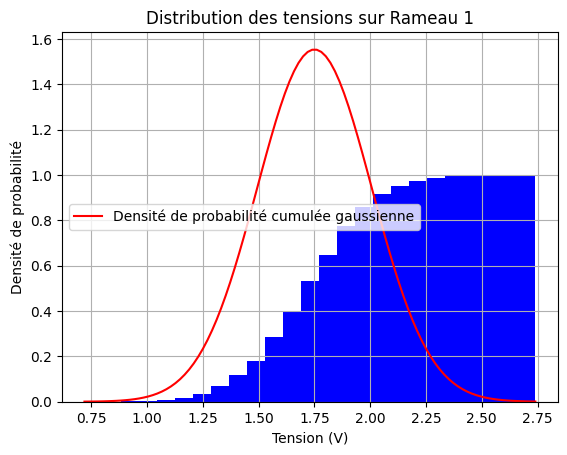
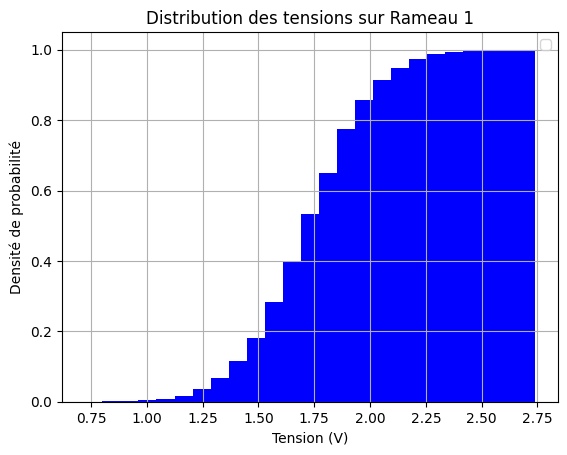
Slides

diff --git a/Exercice_5.py b/Exercice_5.py
@@ -45,7 +45,7 @@ gauss = lambda x,m,s: np.exp(-((x-m)**2)/(2*s**2))/(s*np.sqrt(2*np.pi))
 x = np.linspace(tension1.min(), tension1.max(), 100)
 y = gauss(x, moyenne1, s)
 hist1 = plt.hist(tension1, bins=25, density=True, cumulative=True, color='blue')
-plt.plot(x, y, color='red', label='Densité de probabilité cumulée gaussienne')
+# plt.plot(x, color='red', label='Densité de probabilité cumulée gaussienne')
 plt.xlabel('Tension (V)')
 plt.ylabel('Densité de probabilité')
 plt.title('Distribution des tensions sur Rameau 1')
@@ -59,11 +59,22 @@ x2 = np.linspace(tension2.min(), tension2.max(), 100)
 y2 = gauss(x2, moyenne2, s2)
 gauss = lambda x2,m2,s2: np.exp(-((x2-m2)**2)/(2*s2**2))/(s2*np.sqrt(2*np.pi))
 hist2 = plt.hist(tension2, bins=25, density=True, cumulative=True, color='orange')
-plt.plot(x2, y2, color='red', label='Densité de probabilité cumulée gaussienne')
+# plt.plot(x2, color='red', label='Densité de probabilité cumulée gaussienne')
 plt.xlabel('Tension (V)')
 plt.ylabel('Densité de probabilité')
 plt.title('Distribution des tensions sur Rameau 2')
 plt.legend()
 plt.grid(True)
 plt.savefig('FitGaussienCumulatifR2.png', bbox_inches='tight')
+plt.show()
+
+# Graphique avec les deux
+hist1 = plt.hist(tension1, bins=25, alpha=0.5, density=True, cumulative=True, color='blue', label="Rameau 1")
+hist2 = plt.hist(tension2, bins=25, alpha=0.5, density=True, cumulative=True, color='orange', label="Rameau 2")
+plt.xlabel('Tension (V)')
+plt.ylabel('Densité de probabilité')
+plt.title('Distribution cumulative des tensions sur Rameau 1 et 2')
+plt.legend()
+plt.grid(True)
+plt.savefig('DensiteCumulatifR1R2.png', bbox_inches='tight')
 plt.show()

diff --git a/Exercice_1.py b/Exercice_1.py
@@ -68,13 +68,14 @@ plt.savefig('TensionTrieeR1R2.png', bbox_inches='tight')
 plt.show()
 
 # Histogramme des mesures
-hist1 = plt.hist(tension1, bins=25, density=False)
-hist2 = plt.hist(tension2, bins=25, density=False, alpha=0.5)
+hist1 = plt.hist(tension1, bins=50, density=False, label="Rameau 1")
+hist2 = plt.hist(tension2, bins=50, density=False, alpha=0.5, label="Rameau 2")
 plt.grid(True)
 plt.xlabel('Tension (V)')
 plt.ylabel('Fréquence')
 plt.title('Histogramme des tensions sur Rameau 1 & 2')
 plt.savefig('HistogrammeR1R2.png', bbox_inches='tight')
+plt.legend()
 plt.show()
 
 # Statistiques des mesures
@@ -93,7 +94,7 @@ print("Nombre de valeurs uniques sur Rameau 2 :", len(np.unique(tension2)))
 print("Écart-type de la tension sur Rameau 2 :", np.std(tension2))
 
 # Densité de probabilité
-hist1 = plt.hist(tension1, bins=25, density=True)
+hist1 = plt.hist(tension1, bins=50, density=True)
 plt.grid(True)
 plt.xlabel('Tension (V)')
 plt.ylabel('Densité de probabilité')

diff --git a/Exercice_4.py b/Exercice_4.py
@@ -25,7 +25,7 @@ hist1 = plt.hist(tension1, bins=25, density=True)
 
 plt.plot(x, y, color='red', label='Fit gaussien')
 plt.xlabel('Tension (V)')
-plt.ylabel('Densité de probabilité')
+plt.ylabel('Densité de probabilité (V$^{-1}$)')
 plt.title('Distribution des tensions sur Rameau 1')
 plt.legend()
 plt.grid(True)
@@ -35,12 +35,11 @@ plt.close()
 
 x2 = np.linspace(tension2.min(), tension2.max(), 100)
 y2 = gauss(x2, moyenne2, s2)
-gauss = lambda x2,m2,s2: np.exp(-((x2-m2)**2)/(2*s2**2))/(s2*np.sqrt(2*np.pi))
 hist2 = plt.hist(tension2, bins=25, density=True, color='orange')
 
 plt.plot(x2, y2, color='red', label='Fit gaussien')
 plt.xlabel('Tension (V)')
-plt.ylabel('Densité de probabilité')
+plt.ylabel('Densité de probabilité (V$^{-1}$)')
 plt.title('Distribution des tensions sur Rameau 2')
 plt.legend()
 plt.grid(True)

diff --git a/CR_TP1_SDLC.tex b/CR_TP1_SDLC.tex
@@ -611,6 +611,8 @@
 		\label{fig:FFT_Mesures_Source}
 	\end{figure}
 	
+	On identifie deux pics importants et symétriques par rapport à la fréquence centrale pour chacune des séries de mesures. On identifie les fréquences de 50 Hz pour le fond et 20 Hz pour la source comme étant la fréquence du signal sinusoidal parasite.
+	
 	
 	
 	
